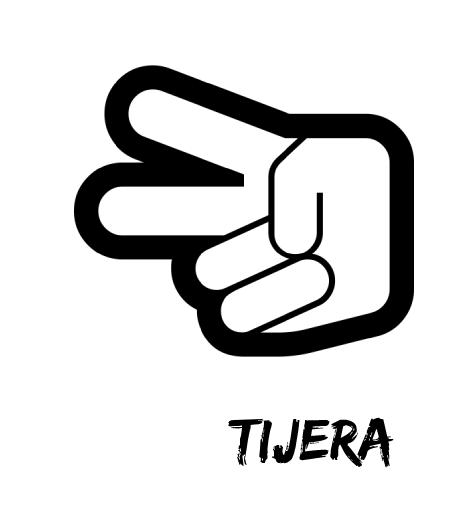
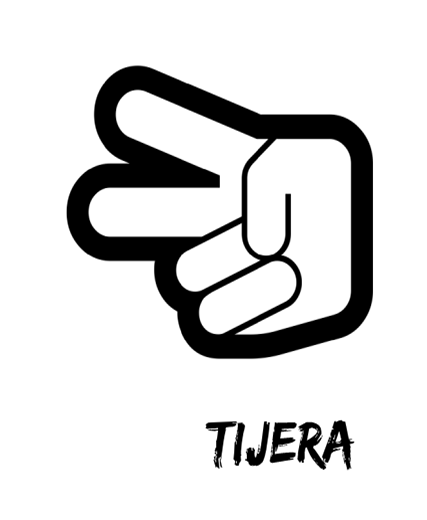
Responsive

diff --git a/style.css b/style.css
@@ -8,27 +8,39 @@
     margin: 0;
     padding: 0;
   }*/
+*{
+    margin: 0;
+    padding: 0;
+}
 body{
     background-image: linear-gradient(red,orangered,orange);
-    /*background-attachment: fixed;*/
+    background-attachment: fixed;
     height: 100vh;
+    box-sizing: border-box;
+}
+.contenedor {
+    /*background-color: lightblue;*/
+    width: 95%;
+    margin: 10px auto;
+    height: 80%;
 }
 .home2{
     display: flex;
     justify-content: center;
-    min-width: 538px;
+    /*min-width: 538px;*/
+    /*background-color: white;*/
 }
-#div1{
-    background-color: red;
+.div1{
+    display: block;
 }
 #imagenpng {    
-    height: 250px;
-    width: 550px;
-    border: 1px solid blue;
+    height: auto;
+    width: 45%;
+    border: 1px solid lightblue;
     margin: auto;
     display: block;
     border-radius: 50px;
-    min-width: 300px;
+    /*min-width: 300px;*/
 }
 #start {
     margin: auto;
@@ -45,62 +57,69 @@ body{
     display: flex;
     width: 100%;
     justify-content: center;
-    min-width: 550px;
+    /*min-width: 300px;*/
+    /*background-color: lightseagreen;*/
+    flex-direction: column;
 }
 .home3{
     display: flex;
     width: 100%;
     justify-content: center;
-    min-width: 550px;
+    /*background-color: brown;*/
+    gap: 15px;
 }
 .home4{
-    background-color: blue;
+    /*background-color: blue;*/
     display: flex;
     width: 100%;
     /*justify-content: center;*/
     min-width: 300px;
 }
 #butt1 {
-    /*margin-bottom: 10px;
-    margin-left: 450px;*/
     background-color: white;
     border-radius: 15px;
     visibility: hidden;
     
 }
 #butt2 {
-    margin-left: 50px;
     background-color: white;
     border-radius: 15px;
     visibility: hidden;
 }
 #butt3 {
-    margin: auto;
-    margin-left: 50px;
+
     background-color: white;
     border-radius: 15px;
     visibility: hidden;
-    /*position: absolute;*/
-
 }
-
-
 #buttonp {
-    height: 100px;
-    width: 100px;
+    min-width: 50px;
+    min-height: 50px;
+    max-height: 150px;
+    max-width: 150px;
+    height: auto;
+    width: 50%;
     display: inline-block;
     border-radius: 5px;
 
 }
 #buttonpa {
-    height: 100px;
-    width: 100px;
+    min-width: 50px;
+    min-height: 50px;
+    max-height: 150px;
+    max-width: 150px;
+    height: auto;
+    width: 50%;
     display: inline-block;
     border-radius: 5px;
 }
 #buttont {
-    height: 100px;
-    width: 100px;
+    min-width: 50px;
+    min-height: 50px;
+    max-height: 150px;
+    max-width: 150px;
+    height: auto;
+    width: 50%;
     display: inline-block;
     border-radius: 5px;
 }
@@ -116,10 +135,8 @@ body{
     font-size: large;
     text-align: center;
     visibility: hidden;
-    margin-top: -20px;
 }
 #titulo1 {
-    margin-top: -13px;
     font-size: large;
     text-align: center;
     visibility: hidden;
@@ -136,21 +153,16 @@ body{
     bottom: 0;
     visibility: hidden;
 }
-#div2{
-    position: absolute;
-    top: 205px;
-    left: 0;
-}
 #score {
-    text-align: center;
-	font-size: 45px;
-    text-align: justify;
+    /*text-align: center;*/
+	font-size: 35px;
+    /*text-align: justify;*/
     visibility: hidden;
-    margin-bottom: -20px;
+    margin-bottom: -10px;
 }
 #scoreEN {
     text-align: center;
-	font-size: 45px;
+	font-size: 35px;
     text-align: justify;
     visibility: hidden;
 }
@@ -167,7 +179,39 @@ body{
     top: 0;
     right: 0;
     padding: 5px;
+    border-radius: 2px;
     text-align: center;
     font-size: large;
     font-family: Georgia, 'Times New Roman', Times, serif;
+}
+@media screen and (max-width: 360px) {
+    #imagenpng{
+    height: auto;
+    width: 75%;
+    border: 2px solid lightblue;
+    margin: auto;
+    display: block;
+    border-radius: 50px;
+    }
+    #start {
+        margin: auto;
+        display: block;
+        background-color: white;
+        height: 60px;
+        width: 100px;
+        font-size: 25px;
+        border-radius: 20px;
+        margin-bottom: 15px;
+        margin-top: 15px;
+    }
+    #score{
+	font-size: 25px;
+    visibility: hidden;
+    margin-bottom: 0px;
+    }
+    #scoreEN{
+    font-size: 25px;
+    visibility: hidden;
+    }
+
 }

diff --git a/index.html b/index.html
@@ -3,29 +3,33 @@
 <head>
     <meta charset="UTF-8">
     <meta http-equiv="X-UA-Compatible" content="IE=edge">
-    <meta name="viewport" content="width=device-width, initial-scale=1.0">
+    <meta name="viewport" content="width=device-width, user-scalable=no, initial-scale=1.0, maximum-scale=1.0, minimun-scale=1.0">
     <link rel="stylesheet" href="style.css">
     <!--<script src="Javascript.js"></script>-->
     <title>Juego</title>
 </head>
 <body>
+    <div class="contenedor">
     <section class="home2">
         <div class="div1"><img id="imagenpng" src="PPT.png"></div>
     </section>
     <section class="home">
         <div>
             <button onclick="activar()" id="start">JUGAR</button>
+        </div>
+        <div>
+            <p id="score">Jugador: 0</p>
+            <p id="scoreEN">Rival: 0</p>
+        </div>
+        <div>
             <p id="titulo">¡Bienvenido al juego!</p>
             <p id="titulo1">El primero en llegar a 3 victorias es el ganador.</p>
-    </div>
+        </div>
     </section>
     <section class="home3">
         <div><button id="butt1" onclick="juego(player = 1)"><img src="piedra.png" id="buttonp"></button></div>
         <div><button id="butt2" onclick="juego(player = 2)"><img src="papel.png" id="buttonpa"></button></div>
         <div><button id="butt3" onclick="juego(player = 3)"><img src="tijera.png" id="buttont"></button></div>
-    </section>
-    <section class="home4">
-        <div id="div2"><p id="score">Jugador: 0</p><p id="scoreEN">Rival: 0</p></div>
     </section>
     <section class="home">
         <div>
@@ -36,5 +40,6 @@
     <script src="Javascript.js"></script>
     <button id="nick" onclick="myNick()">ELEGIR TU NOMBRE</button>
     <button  id="adivinanzas"><a href="example.html">Acertijos</a></button>
+    </div>
 </body>
 </html>
